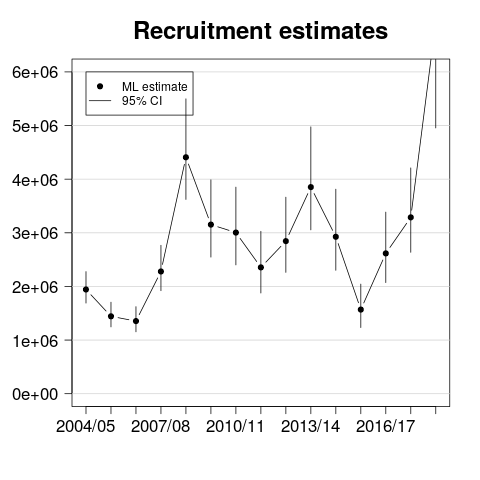
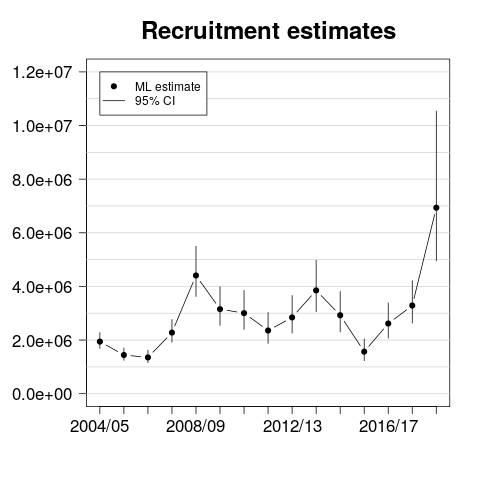
Updated the README.md file

diff --git a/Script/Results/Models/Mod2-FishingMortality.tex b/Script/Results/Models/Mod2-FishingMortality.tex
@@ -1,5 +1,5 @@
 % latex table generated in R 3.6.1 by xtable 1.8-4 package
-% Sat Oct 19 08:31:47 2019
+% Sat Oct 19 11:49:14 2019
 \begin{table}[ht]
 \centering
 \begin{tabular}{rrrrrrr}

diff --git a/Writing/Tables/GarfishAgeData.tex b/Writing/Tables/GarfishAgeData.tex
@@ -1,5 +1,5 @@
 % latex table generated in R 3.6.1 by xtable 1.8-4 package
-% Sat Oct 19 08:31:45 2019
+% Sat Oct 19 11:56:17 2019
 \begin{table}[ht]
 \centering
 \begin{tabular}{rrrrrrr}

diff --git a/Writing/Tables/GarfishWeightAtAge.tex b/Writing/Tables/GarfishWeightAtAge.tex
@@ -1,5 +1,5 @@
 % latex table generated in R 3.6.1 by xtable 1.8-4 package
-% Sat Oct 19 08:31:45 2019
+% Sat Oct 19 11:56:17 2019
 \begin{table}[ht]
 \centering
 \begin{tabular}{rrrrrrr}

diff --git a/Writing/Tables/WeightedGarfishAgeData.tex b/Writing/Tables/WeightedGarfishAgeData.tex
@@ -1,5 +1,5 @@
 % latex table generated in R 3.6.1 by xtable 1.8-4 package
-% Sat Oct 19 08:31:45 2019
+% Sat Oct 19 11:56:17 2019
 \begin{table}[ht]
 \centering
 \begin{tabular}{rrrrrrr}

diff --git a/Writing/Tables/GarfishCatchAndEffort.tex b/Writing/Tables/GarfishCatchAndEffort.tex
@@ -1,5 +1,5 @@
 % latex table generated in R 3.6.1 by xtable 1.8-4 package
-% Sat Oct 19 08:31:45 2019
+% Sat Oct 19 11:56:17 2019
 \begin{table}[ht]
 \centering
 \begin{tabular}{rrr}

diff --git a/README.md b/README.md
@@ -8,13 +8,13 @@ This repository provides data, methods, scripts and results used to estimate the
 
 The data consist of measurements of [age from a sample of commercial catches](Data/GarfishAgeData.csv), [weights from individual fish in specific intervals of age](Data/GarfishWeightAtAge.csv), [total catch](Data/GarfishCatchData.csv) and [effort](Data/GarfishEffortData.csv).
 
-Up to 2016/17, catches in this fishery were relatively stable, around 45 +- 18 tonnes, with 2009/10 showing a larger than usual yield. 2017/18 showed a substantial decline in catch. Fishing effort declined sharply since 2004/05, as a result catch per unit effort increased over time.
+Catches in this fishery have been relatively stable, in average 43 +- 18 tonnes. Catches in 2009/10 were reported to be 100 tonnes, an un-usually large figure in the time series of data. Fishing effort declined sharply since 2004/05, and have been stable since 2015/16 at around 150 boat-days. Catch per unit effort (CPUE), right-hand panel, were approx. 50 kg/boat-day at the beginning of the timeseries when effort was very large. After the sharp decline in effort, CPUE fluctuated around 200 kg/boat-day without showing any trend.
 
 ![alt text](https://github.com/mkienzle/NSW-sea-garfish-stock-assessment/blob/master/Script/Results/Graphics/CatchAndEffortVariations.png)
 
 ## Methods
 
-Several models describing how mortality rates varied by age-group through time (depending on fishing effort, catchability and age-specific gear selectivity) were developed. All models assume a constant rate of mortality due to natural causes which was estimated. These mortality models have been expressed using hazard functions and converted into probabilities of dying at age from fishing using methods developed in the field of statistics called [survival analysis](https://link.springer.com/article/10.1007%2Fs13253-015-0237-y). These age-specific probabilities of dying from fishing were combined with age data sampled from commercial catches into a likelihood function. A range of hypotheses regarding gear selectivity and natural mortality expressed into the mortality models were compared with Akaike Information Criteria (AIC). 
+Several models describing how mortality rates varied by age-group through time (depending on fishing effort, catchability and age-specific gear selectivity) were developed. All models assume a constant rate of mortality due to natural causes which was estimated. These mortality models have been expressed using hazard functions and converted into probabilities of dying at age from fishing using a method developed in the field of statistics called [survival analysis](https://link.springer.com/article/10.1007%2Fs13253-015-0237-y). These age-specific probabilities of dying from fishing were combined with age data sampled from commercial catches into a likelihood function. A range of hypotheses regarding gear selectivity and natural mortality expressed into the mortality models were compared with Akaike Information Criteria (AIC). 
 
 ## Mortality models for sea garfish
 
@@ -26,25 +26,29 @@ So far, three mortality models have been estimated from the data. All models ass
 
 ## Results
 
-Model 2 is most supported by the data according to [AIC](Script/Results/Data/ModelComparisonTable.csv). [This diagnostic plot](Script/Results/Graphics/NbAtAgeOverlayedWithModel.png) shows discrepancies between model 2 and age data. [Profiles](Script/Results/Graphics/Model2-ProfileLikelihood.png) of its negative log-likelihood function are smooth around the minimum for each parameter and allow to visualise the uncertainty associated with each parameter estimate. Results below report a description of the dynamics of this fishery based on this model's parameter estimates.
+Model 2 is most supported by the data according to [AIC](Script/Results/Data/ModelComparisonTable.csv). [This diagnostic plot](Script/Results/Graphics/NbAtAgeOverlayedWithModel.png) shows discrepancies between model 2 and age data. [Profiles](Script/Results/Graphics/Model2-ProfileLikelihood.png) of its negative log-likelihood function are smooth around the minimum for each parameter and allow to visualise parameter estimates uncertainties. The sections below describe the dynamics of this fishery based on this model 2 parameter estimates.
 
 ### Trends in populations quantities
 
 #### Mortality rates
 
-The mortality model most supported by the data shows a decline of fishing mortality rates to below natural mortality from 2009/10 onward. The decrease in age-group 0-1 retention in the gear combined with decreasing fishing effort reduced fishing mortality on the youngest age-group to a negligible level.
+Fishing mortality rates have declined below natural mortality from 2009/10 onward. The decrease in age-group 0-1 retention, induced by the increased mesh size regulation initiated in 2006 and fully adopted in 2009/10, reduced fishing mortality on the youngest age-group to a negligible level.
 
 ![alt text](https://github.com/mkienzle/NSW-sea-garfish-stock-assessment/blob/master/Script/Results/Graphics/Mod2-MortalityEstimates.png)
 
 #### Biomass estimates
 
-Model 2 estimates sea garfish biomass biomass remained at or above 100 tonnes since 2009/10. This stock's biomass have been slowly trending upward since 2008/09.
+Sea garfish biomass estimates have been trending upward since 2008/09: they remained above 100 tonnes since 2009/10. Biomass increased in the last 3 years and stayed above 200 tonnes in the last 2 years.
 
 ![alt text](https://github.com/mkienzle/NSW-sea-garfish-stock-assessment/blob/master/Script/Results/Graphics/EstimateOfBiomass.png)
 
 #### Recruitment estimates
 
-Recruitment was estimated to have varied between 1 and 4 millions fish each year. 2008/9 had the largest recruitment estimate, presumably leading to the increase in biomass estimated in 2009/10. 2013/14 was estimated to be the third largest recruitment but did not translate into an increase in biomass in 2014/15. The most recent estimate of recruitment (2017/18) is the second largest and follows two very low recruitments in 2015/16 and 2016/17.
+Recruitment was estimated to have varied between 1 and 5 millions fish each year until the most recent fishing season (2018/19) for which recruitment has been the largest estimated so far (approx. 7 millions fish). Such large estimate is the result of a combination of a large number of age-group 0-1 observed and the low probability of dying from fishing for that age-group in that year. This large estimate of recruitment relies on the observation of a single age-group of the youngest cohort in the fishery and will undoubtely be revised by the addition of new age-group 1-2 obervation for this cohort in 2019/20. 2008/9 had the largest recruitment estimate prior to this year, presumably leading to the increase in biomass estimated in 2009/10. 2013/14 was estimated to be the fourth largest recruitment but did not translate into an increase in biomass in 2014/15. The most recent estimate of recruitment (2017/18) is the second largest and follows two very low recruitments in 2015/16 and 2016/17.
 
 ![alt text](https://github.com/mkienzle/NSW-sea-garfish-stock-assessment/blob/master/Script/Results/Graphics/EstimateOfRecruitment.png)
 
+
+There start to be enough recruitment estimates (14) to begin looking at the existence of a stock recruitment relationship. The plot of recruitment estimates against spawning stock biomass estimates, fitted with a Ricker stock-recruitment function, suggests that the Ricker model might provide useful information about the level of spawning stock biomass that produce the largest amount of recruits.
+
+![alt text](https://github.com/mkienzle/NSW-sea-garfish-stock-assessment/blob/master/Script/Results/Graphics/RickerSRROnNaturalScale.png)
